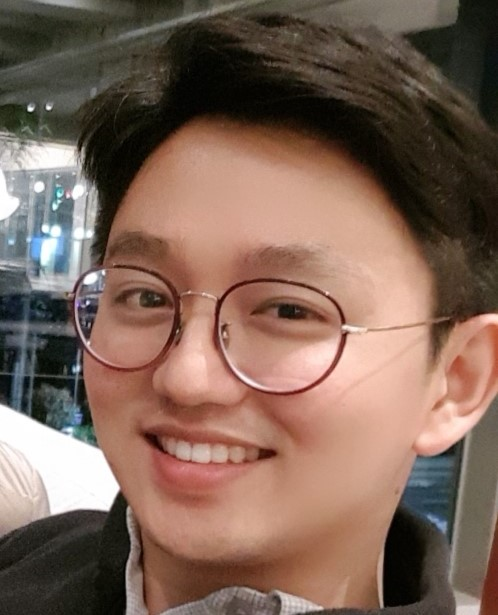
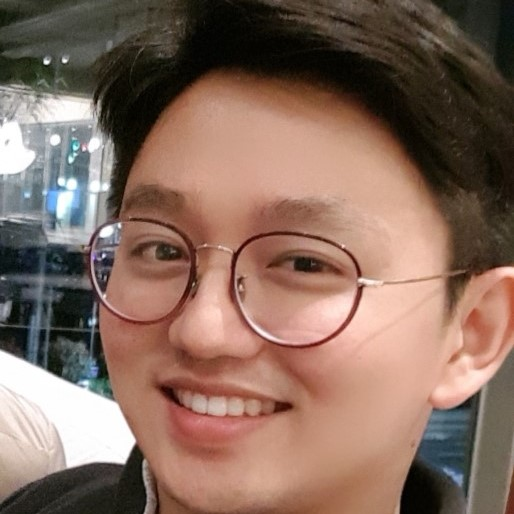
내 소개 추가

diff --git a/_includes/footer.html b/_includes/footer.html
@@ -4,6 +4,6 @@
     {{ site.copyright | markdownify }}
   {% endif %}
   <p>
-    <code>Powered by <a href="https://theorydb.github.io/">theorydb</a></code>
+    <code>Powered by <a href="https://sangminje.github.io/">jessie</a></code>
   </p>
 </footer>

diff --git a/_posts/2021-04-04-think-git-page.md b/_posts/2021-04-04-think-git-page.md
@@ -1,0 +1,68 @@
+---  
+layout: post  
+title: "티스토리에서 Github로 넘어온 엔지니어"
+subtitle: "티스토리에서 블로그 포스팅으로 옮겨온 데이터 엔지니어"  
+categories: think  
+tags: think blog
+comments: true  
+---  
+
+
+
+## 개요
+> 티스토리에서 Github로 넘어온 이유에 대해서 알려드립니다.
+
+<br/>
+
+- 목차
+    - [1. 안예쁜 티스토리](#안예쁜-티스토리)
+    - [2. Markdown의 필요성](#Markdown의-필요성)
+    - [3. 포트폴리오](#포트폴리오)
+    - [4. 도움을 준 자료들](#도움을-준-자료)
+
+
+<br/>
+
+## 안예쁜 티스토리
+---
+* __한정적인 티스토리의 테마__  
+티스토리는 테마가 한정적입니다. 제가 원하는 디자인으로 뭔가 꾸미고 싶지만 html적인 지식이 많이 소요되는 것 같습니다. 반대로 Github 페이지는 이미 상용화되어있는 테마들이 많이 있고, 원하는 데이터를 포크해서 가져다 쓰기만 하면 되는 장점이 있었습니다. 
+
+* __아무리 애를 써도..__  
+티스토리는 아무리 애를 써도 제 능력으로는 예뻐지지가 않았습니다. 나중에는 HTML과 CSS를 건드려야 하는 지경에 이르렀는데 도저히 엄두가 안나더군요. 아무리 자기 블로그이지만 예뻐야 자꾸 들어가고 싶은 마음이 드는 법인데, 저는 티스토리에는 그렇게 정이 가지 않았습니다.
+<BR/>
+
+## Markdown의 필요성
+---
+
+* __R과의 궁합__  
+저는 `R 유저`입니다. R은 기본적으로 `RMarkdown`이라고 하는 리포트 툴을 제공하죠. 그래서 Markdown이라는 공통분모를 통해 하나의 언어로 두 마리의 새를 잡고 싶었습니다.
+
+* __Markdown만의 깔끔함__  
+그리고 여러 프로그래밍/데이터 사이언스를 공부하다보면 Markdown 언어로 정리한 글들이 많습니다. 그리고 대부분 깔끔하게 정리될 수 있다는 것을 몸소 느꼈습니다. 이런 부분이 티스토리에서 GUI 형식으로 수정해도 채워지지 않았던 갈증을 해소해줄 것 같았죠
+<BR/>
+
+
+## 포트폴리오
+---
+* __나를 홍보할 Web Page__  
+제 작업물과 결과를 잘 보여주기 위해서는 깔끔하고 정리된 `Archive` 형식이 필요하다고 생각했습니다. 그래서 여러 가지 대안을 놓고 본 결과 Github 블로그가 가장 적합하다고 판단했습니다. 더불어 `프로그래머`로서의 감성을 더욱 잘 표현해주는 블로그라고 느꼈습니다. 
+
+<BR/>
+
+## 도움을 준 자료
+---
+* __지옥에서 온 Git...__  
+깃허브 초반의 허들이 굉장히 높다고 느꼈습니다. 그래서 제가 이 블로그를 만들면서 도움이 된 영상과 블로그를 같이 소개하고자 합니다 :)
+
+* __도움이 된 유튜브 / 블로그__  
+    - [Git & GitHub Page 블로그 만들기 4강 - Github Page 활용하기T아카데미](https://www.youtube.com/watch?v=eCv_bh-Ax-Q)
+
+    - [Theory DB](https://theorydb.github.io/envops/2019/05/03/envops-blog-github-pages-jekyll/#%ED%8C%8C%EC%9D%BC-%EC%88%98%EC%A0%95%ED%95%98%EA%B8%B0)
+
+---
+
+      
+         
+앞으로 블로그에 계속 유용하고 좋은 자료들을 포스팅할 예정입니다. 관심있게 지켜봐주세요 :)
+감사합니다.

diff --git a/about.md b/about.md
@@ -8,34 +8,45 @@ order: 10
 
 ## 소개
 
-Data를 통해 무언가를 만드는 과정을 공유하고 생각을 나누기 위해 Github Blog를 만들었습니다. :tada:
+Data를 통해 무언가를 만들고 해결하는 과정을 공유하고 생각을 나누기 위해 Github Blog를 만들었습니다.
 
-:wrench: Data를 만지고 집계해서 시각화하는 것을 좋아합니다.
+음악과 기타에 사랑합니다. 대놓고는 못하지만 꾸준히 하다보면 언젠가 남들 모르게 대박치지 않을까 하는 로또같은 희망을 품고 살고 있습니다.
 
-:fire: 음악과 기타에 흥미를 느끼며 대놓고는 못하지만 은근히 하다보면 언젠가 남들 모르게 대박치지 않을까 하는 작은 희망으로 살고 있습니다. 안테나 뮤직에 들어가고 싶습니다.
-
-:bug: 열심히 블로깅을 해서 좋은 결과를 만들고 싶습니다.
-
-:pencil: 소통해주시고 의견 남겨주시면 감사하겠습니다. 행복하세요!
+소통해주시고 의견 남겨주시면 감사하겠습니다. 행복하세요!
 
 ---
 
 ## 약력
 - 現 Deloitte Consulting - Tech Consultant
-    - QlikView를 활용한 EIS 구축 (SAP 협업)
-    - SQL을 통한 데이터 집계
-- 2018 ~ 2020 (주)웅진 BI Developer
-  - **QlikView/Sense**를 활용한 Dashboard 프로젝트 수행
-  - R을 활용한 EDA 분석 리포트 제공
-  - 제안서 작성 및 사업계획서 작성      
+    - **QlikView**로 **EIS** 구축 (SAP 협업)
+    - **QlikSense**로 시각화 분석 플랫폼 구축
+        - Ad-hoc Report
+        - What-if 시뮬레이션
+    - **SQL**을 통한 데이터 집계
+- 2018 ~ 2020 (주)웅진 Business Developer
+  - **QlikView/Sense**를 활용한 Dashboard 구축
+  - **R**을 활용한 EDA 분석 리포트
+  - 제안서 / 사업계획서   
 - 2015 ~ 2017 육군 중위 (기계화보병, 소대장/인사장교)
-- 2011 ~ 2015 성균관대학교 통계학과 재학
+- 2011 ~ 2015 성균관대학교 통계학과
+    - 기타동아리 '못갖춘마디'
+    - ROTC
+
 ---
 
 ## Skill List
 
 - R
 - SQL
-- QlikView/QlikSense
+- QlikView
+- QlikSense
 - Tableau
 
+---
+
+## Skill List2
+
+- 통기타
+- Cubase11
+- 테니스 라켓
+- 후라이팬

diff --git a/_featured_tags/1.4.DL-Data.md b/_featured_tags/1.4.DL-Data.md
@@ -4,5 +4,6 @@ title: Deep Learning
 slug: Deep Learning
 category: Data
 menu: false
-order: 3
+order: 5
+
 ---
